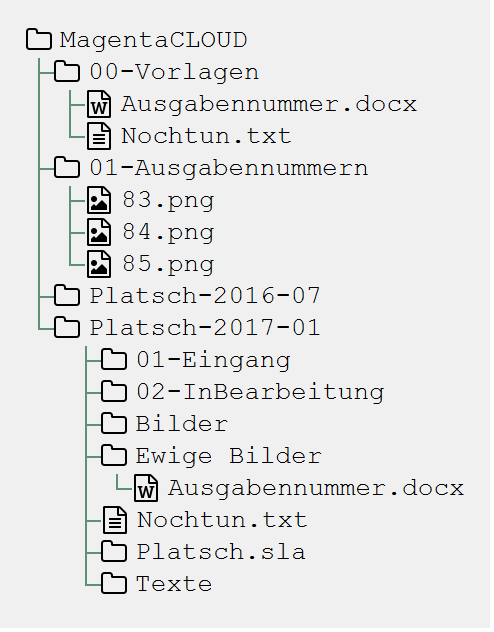
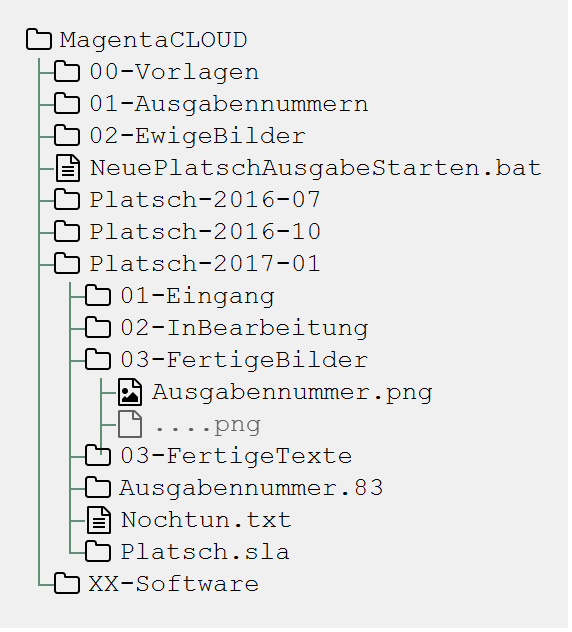
Skript "NeuePlatschAusgabeStarten" dokumentiert

Changed region(s): [[0.0304, 0.0301, 0.9413, 0.962], [0.8198, 0.7516, 0.9413, 0.7816]]

diff --git a/html/Layout.html b/html/Layout.html
@@ -458,7 +458,7 @@ body.book #toc,body.book #preamble,body.book h1.sect0,body.book .sect1>h2{page-b
 <li><a href="#_vorbereitende_arbeiten">4.1. Vorbereitende Arbeiten</a>
 <ul class="sectlevel3">
 <li><a href="#_anlegen_eines_verzeichnisses_für_die_neue_ausgabe">4.1.1. Anlegen eines Verzeichnisses für die neue Ausgabe</a></li>
-<li><a href="#_erzeugen_eines_bildes_für_die_ausgabennummer">4.1.2. Erzeugen eines Bildes für die Ausgabennummer</a></li>
+<li><a href="#_erzeugen_eines_bildes_fuer_die_ausgabennummer">4.1.2. Erzeugen eines Bildes fuer die Ausgabennummer</a></li>
 </ul>
 </li>
 <li><a href="#_wiederkehrende_arbeitsschritte">4.2. Wiederkehrende Arbeitsschritte</a></li>
@@ -646,11 +646,17 @@ body.book #toc,body.book #preamble,body.book h1.sect0,body.book .sect1>h2{page-b
 <div class="paragraph">
 <p>Im Verzeichnis <em>01-Ausgabennummern</em> sind vorbereitete Bilder für die Nummern, die auf der Titelseite der jeweiligen Ausgaben auftauchen.</p>
 </div>
+<div class="paragraph">
+<p>Im Verzeichnis <em>02-EwigeBilder</em> wohnen Bilder, die immer wieder auftauchen wie z.B. das Logo oder andere charakteristische Graphiken.</p>
+</div>
 </div>
 <div class="sect2">
 <h3 id="_ordnerstruktur_einer_bestimmten_ausgabe"><a class="anchor" href="#_ordnerstruktur_einer_bestimmten_ausgabe"></a>3.2. Ordnerstruktur einer bestimmten Ausgabe</h3>
 <div class="paragraph">
 <p>Auch innerhalb des Ordners einer bestimmten Ausgabe ist eine Verständigung über die Bedeutung einzelner Verzeichnisse hilfreich.</p>
+</div>
+<div class="paragraph">
+<p>Die folgende Abbildung gibt einen detaillierteren Blick in das Innere des Ordners für die Ausgabe vom Januar 2017:</p>
 </div>
 <div id="image-dateibaum" class="imageblock">
 <div class="content">
@@ -662,7 +668,7 @@ body.book #toc,body.book #preamble,body.book h1.sect0,body.book .sect1>h2{page-b
 <p>Die zentrale Datei einer jeden Ausgabe ist die Datei <em>Platsch.sla</em>. Sie repräsentiert das Layout zusammen mit den Inhalten und ist die Quelle, aus der am Ende das druckbare PDF erzeugt wird.</p>
 </div>
 <div class="paragraph">
-<p><em>Alle</em> erzeugten und zugelieferten Dateien werden zuerst im Unterverzeichnis <em>01-Eingang</em> aufgenommen <mark>(1)</mark>. Sobald sie redationell bearbeitet werden, werden sie in den Ordner <em>02-InBearbeitung</em> verschoben <mark>(2)</mark>. Erst wenn sie ihre Form, in der sie in die Zeitung Eingang finden sollen, erhalten haben, werden sie - im Falle von Texten - in das Verzeichnis <em>Texte</em> verschoben <mark>(3)</mark>, im Falle von Bildern in den Ordner <em>Bilder</em> <mark>(4)</mark>.</p>
+<p><em>Alle</em> erzeugten und zugelieferten Dateien werden zuerst im Unterverzeichnis <em>01-Eingang</em> aufgenommen <mark>(1)</mark>. Sobald sie redationell bearbeitet werden, werden sie in den Ordner <em>02-InBearbeitung</em> verschoben <mark>(2)</mark>. Erst wenn sie ihre Form, in der sie in die Zeitung Eingang finden sollen, erhalten haben, werden sie - im Falle von Bildern - in das Verzeichnis <em>03-FertigeBilder</em> verschoben <mark>(3)</mark>, im Falle von Texten in den Ordner <em>03-FertigeTexte</em> <mark>(4)</mark>.</p>
 </div>
 <div class="paragraph">
 <p>So ist eine für alle ersichtliche Trennung der unterschiedlichen Stadien der Bearbeitung gesichert und die Gefahr von Missverständnissen und Datenverluste ist minimal.</p>
@@ -681,13 +687,19 @@ body.book #toc,body.book #preamble,body.book h1.sect0,body.book .sect1>h2{page-b
 <div class="sect3">
 <h4 id="_anlegen_eines_verzeichnisses_für_die_neue_ausgabe"><a class="anchor" href="#_anlegen_eines_verzeichnisses_für_die_neue_ausgabe"></a>4.1.1. Anlegen eines Verzeichnisses für die neue Ausgabe</h4>
 <div class="paragraph">
-<p>Für jede Ausgabe der Vereinszeitung wird im Ordner der Cloud ein eigener Unterordner erzeugt.</p>
+<p>Der erste Schritt zur Erstellung einer neuen Ausgabe ist das Erzeugen eines entsprechenden Unterverzeichnisses, das durch das Skript <em>NeuePlatschAusgabeStarten.bat</em> erstellt wird. Das Skript <em>muss</em> in einer Command-Shell im Hauptverzeichnis der Cloud aufgerufen werden.</p>
 </div>
 <div class="paragraph">
-<p>Der erste Schritt zur Erstellung einer neuen Ausgabe ist also das Kopieren des Ordners der letzten Ausgabe. Der dadurch neu entstandene Ordner wird danach geeignet umbenannt.</p>
+<p><span class="image"><img src="images/NeuePlatschAusgabeStarten.bat1.png" alt="NeuePlatschAusgabeStarten.bat1"></span></p>
 </div>
 <div class="paragraph">
-<p>Aus dem Ordner <em>Vorlagen</em> ist die Datei <em>NochTun.txt</em> in das neu entstandene Verzeichnis der aktuellen Ausgabe zu kopieren.</p>
+<p>Nach Bestätigen des vorgeschlagenen Verzeichnisnamens - oder Eingabe eines neuen - wird das Verzeichnis der vorherigen Ausgabe bestimmt sowie die neue Ausgabennummer:</p>
+</div>
+<div class="paragraph">
+<p><span class="image"><img src="images/NeuePlatschAusgabeStarten.bat2.png" alt="NeuePlatschAusgabeStarten.bat2"></span></p>
+</div>
+<div class="paragraph">
+<p>Es wird die oben dargestellte Verzeichnisstruktur erzeugt, sowie einige grundlegende Dateien in den Ordner kopiert.</p>
 </div>
 <div class="admonitionblock warning">
 <table>
@@ -697,30 +709,13 @@ body.book #toc,body.book #preamble,body.book h1.sect0,body.book .sect1>h2{page-b
 </td>
 <td class="content">
 <div class="paragraph">
-<p>Es ist unbedingt darauf zu achten, dass die Datei  <em>NochTun.txt</em> tatsächlich <em>kopiert</em> wird und nicht etwa nur verschoben!</p>
+<p>Es ist unbedingt zu überprüfen, ob das Bild für die Ausgabennummer im Verzeichnis <em>03-FertigeBilder</em> korrekt angelegt worden ist!
+Wenn noch kein Nummernbild vorbereitet ist, guckst du
+<a href="_erzeugen_eines_bildes_fuer_die_ausgabennummer">hier</a>!</p>
 </div>
 </td>
 </tr>
 </table>
-</div>
-<div class="paragraph">
-<p>Aus dem Ordner <em>01-Ausgabennummern</em> die (hoffentlich) schon vorbereitete .png-Datei für die betreffende Ausgabennummer. Wenn noch kein Nummernbild vorbereitet ist, guckst du
-<a href="erzeugen_eines_bildes_f_r_die_ausgabennummer">hier</a>!</p>
-</div>
-<div class="paragraph">
-<p>Nach dem Kopieren kann man eventuell den Ordner der alten Ausgabe bereinigen. Eigentlich sind alle Dateien verzichtbar bis auf die finale PDF-Datei der jeweiligen Ausgabe.</p>
-</div>
-<div class="paragraph">
-<p>Die folgende Abbildung gibt einen detaillierteren Blick in das Innere des Ordners für die Ausgabe vom Januar 2017:</p>
-</div>
-<div id="image-dateibaum" class="imageblock">
-<div class="content">
-<img src="images/CloudVerzeichnis2.png" alt="CloudVerzeichnis2">
-</div>
-<div class="title">Abbildung 3. Ordnerstruktur einer bestimmten Ausgabe (hier: Januar 2017)</div>
-</div>
-<div class="paragraph">
-<p>Neben für jede Ausgabe spezifischen Inhalten finden sich darin eine Reihe von Elementen, die in jeder Ausgabe vorkommen. Da ist zum einen das Verzeichnis mit Namen <em>Ewige Bilder</em> zu nennen, in dem eben Bilder vorgehalten werden, die in jeder Ausgabe wieder auftauchen (wie z.B. das Logo).</p>
 </div>
 <div class="paragraph">
 <p>Die Datei <em>Nochtun.txt</em> ist schlicht ein Merkzettel, in die man Dinge hineinschreibt, die einem während der Arbeit am Layout auffallen, die aber nicht sofort erledigt werden können (wie z.B. das Besorgen der aktuellen Termine der Polo-Sparte, sollten diese ausnahmsweise einmal nicht bereits zum Redaktionsschluss vorliegen).</p>
@@ -730,7 +725,7 @@ body.book #toc,body.book #preamble,body.book h1.sect0,body.book .sect1>h2{page-b
 </div>
 </div>
 <div class="sect3">
-<h4 id="_erzeugen_eines_bildes_für_die_ausgabennummer"><a class="anchor" href="#_erzeugen_eines_bildes_für_die_ausgabennummer"></a>4.1.2. Erzeugen eines Bildes für die Ausgabennummer</h4>
+<h4 id="_erzeugen_eines_bildes_fuer_die_ausgabennummer"><a class="anchor" href="#_erzeugen_eines_bildes_fuer_die_ausgabennummer"></a>4.1.2. Erzeugen eines Bildes fuer die Ausgabennummer</h4>
 <div class="admonitionblock warning">
 <table>
 <tr>
@@ -749,13 +744,13 @@ body.book #toc,body.book #preamble,body.book h1.sect0,body.book .sect1>h2{page-b
 </table>
 </div>
 <div class="paragraph">
-<p>Im Verzeichnis <em>Vorlagen</em> liegt eine Word-Datei <em>Ausgabennummer.docx</em>. Sie enthält eine bereits korrekt formatierte Zahl (als WordArt-Objekt) für die (vorherige) Auflagennummer:</p>
+<p>Im Verzeichnis <em>00-Vorlagen</em> liegt eine Word-Datei <em>Ausgabennummer.docx</em>. Sie enthält eine bereits korrekt formatierte Zahl (als WordArt-Objekt) für die (zuletzt erstellte) Auflagennummer:</p>
 </div>
 <div class="imageblock">
 <div class="content">
 <img src="images/Ausgabennummer1.png" alt="Ausgabennummer1">
 </div>
-<div class="title">Abbildung 4. Bearbeitung der Ausgabennummer</div>
+<div class="title">Abbildung 3. Bearbeitung der Ausgabennummer</div>
 </div>
 <div class="olist arabic">
 <ol class="arabic">
@@ -777,7 +772,7 @@ body.book #toc,body.book #preamble,body.book h1.sect0,body.book .sect1>h2{page-b
 <div class="content">
 <img src="images/Ausgabennummer2.png" alt="Ausgabennummer2">
 </div>
-<div class="title">Abbildung 5. Anpassung der Ausgabennummer</div>
+<div class="title">Abbildung 4. Anpassung der Ausgabennummer</div>
 </div>
 <div class="paragraph">
 <p>Nun muss diese Nummer "abfotografiert" werden. Dazu sollte man zuerst mit der Maus unter den Rahmen des WordArt-Objekt klicken, damit dieser nicht mehr dargestellt wird.</p>
@@ -786,7 +781,7 @@ body.book #toc,body.book #preamble,body.book h1.sect0,body.book .sect1>h2{page-b
 <div class="content">
 <img src="images/Ausgabennummer3.png" alt="Ausgabennummer3">
 </div>
-<div class="title">Abbildung 6. "Screenshotten" der Ausgabennummer</div>
+<div class="title">Abbildung 5. "Screenshotten" der Ausgabennummer</div>
 </div>
 <div class="paragraph">
 <p>Das "Abfotografieren" macht man mit einem beliebigen "Snippet"-Tool - ich verwende <a href="http://getgreenshot.org/">GreenShot</a>. Der Screenshot ist als "png"-Datei zu speichern.</p>
@@ -804,16 +799,16 @@ body.book #toc,body.book #preamble,body.book h1.sect0,body.book .sect1>h2{page-b
 <div class="content">
 <img src="images/Ausgabennummer4.png" alt="Ausgabennummer4">
 </div>
-<div class="title">Abbildung 7. IrfanView: Bild speichern unter&#8230;&#8203;</div>
+<div class="title">Abbildung 6. IrfanView: Bild speichern unter&#8230;&#8203;</div>
 </div>
 <div class="paragraph">
-<p>Als Ausgabeort wählt man das Unterverzeichnis <em>Ausgabennummern</em> direkt im Cloud-Ordner. Wenn das Häkchen im Kasten "Show Option Dialog" gesetzt ist, erscheint ein weiterer Dialog, in dem die Optionen wie unten dargestellt angewählt sein müssen:</p>
+<p>Als Ausgabeort wählt man das Unterverzeichnis <em>01-Ausgabennummern</em> direkt im Cloud-Ordner. Wenn das Häkchen im Kasten "Show Option Dialog" gesetzt ist, erscheint ein weiterer Dialog, in dem die Optionen wie unten dargestellt angewählt sein müssen:</p>
 </div>
 <div class="imageblock">
 <div class="content">
 <img src="images/Ausgabennummer5.png" alt="Ausgabennummer5">
 </div>
-<div class="title">Abbildung 8. Optionen, um Transparenz zu erzeugen</div>
+<div class="title">Abbildung 7. Optionen, um Transparenz zu erzeugen</div>
 </div>
 <div class="paragraph">
 <p>Wenn man dann im ursprünglichen "Speichern"-Dialog den Knopf <kbd>Speichern</kbd> drückt, öffnet sich abermals ein Fenster, in dem man die Farbe auswählen kann, die transparent gesetzt werden soll:</p>
@@ -822,7 +817,7 @@ body.book #toc,body.book #preamble,body.book h1.sect0,body.book .sect1>h2{page-b
 <div class="content">
 <img src="images/Ausgabennummer6.png" alt="Ausgabennummer6">
 </div>
-<div class="title">Abbildung 9. Transparente Farbe auswählen</div>
+<div class="title">Abbildung 8. Transparente Farbe auswählen</div>
 </div>
 <div class="paragraph">
 <p>Hier klickt man einfach in den weißen Hintergrund - et voilá: schon haben wir eine schöne neue Ausgabennummer!</p>
@@ -842,9 +837,6 @@ body.book #toc,body.book #preamble,body.book h1.sect0,body.book .sect1>h2{page-b
 <p>Titelseite anpassen</p>
 <div class="olist loweralpha">
 <ol class="loweralpha" type="a">
-<li>
-<p>Ausgabennummer erhöhen</p>
-</li>
 <li>
 <p>Ausgabedatum aktualisieren</p>
 </li>
@@ -1125,7 +1117,7 @@ Mit einem Doppelklick in das Feld unter dem Überschrift <em>Wert</em> trägt ma
 <div id="footer">
 <div id="footer-text">
 Version 1.0<br>
-Erstellt mit Asciidoctor v1.5.3 : Zuletzt geändert: 2017-01-12 21:09:09 +01:00
+Erstellt mit Asciidoctor v1.5.3 : Zuletzt geändert: 2017-01-14 00:05:49 +01:00
 </div>
 </div>
 <link rel="stylesheet" href="https://cdnjs.cloudflare.com/ajax/libs/highlight.js/8.9.1/styles/github.min.css">
